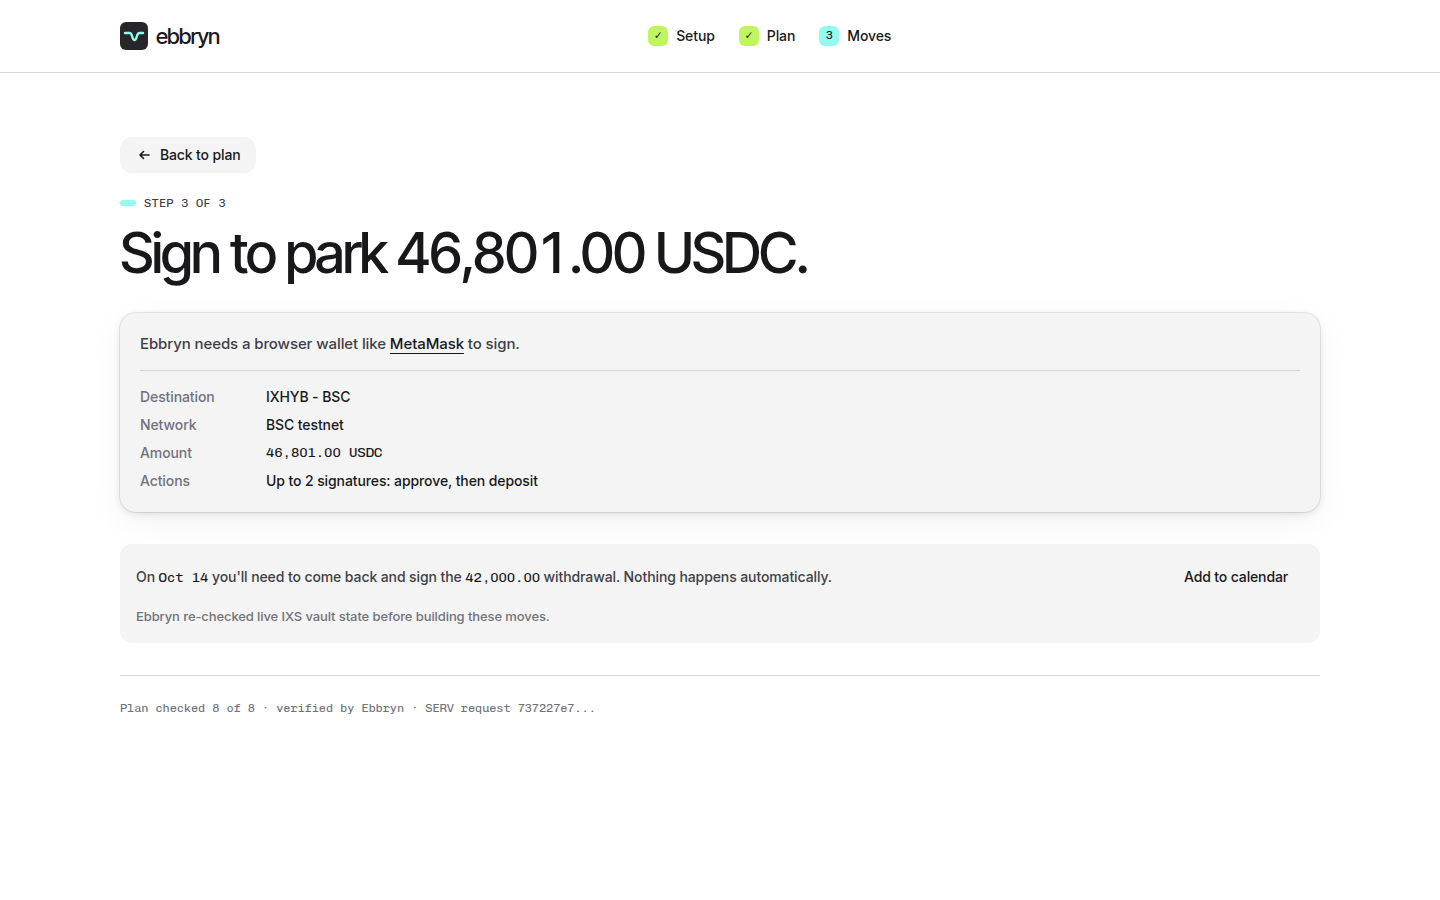
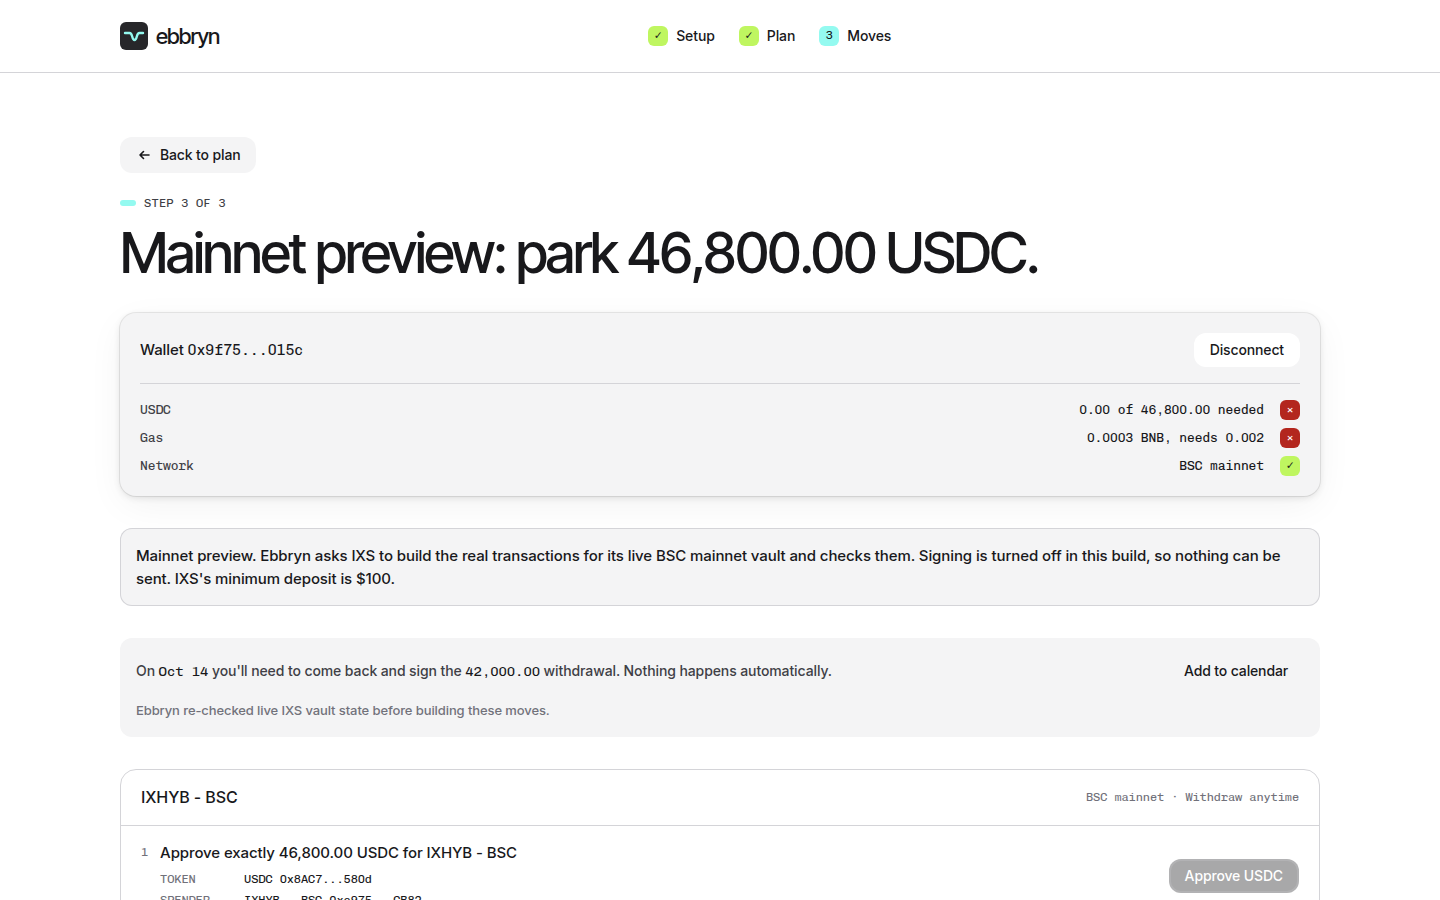
Align README with the mainnet preview and use a mainnet Moves screenshot

diff --git a/README.md b/README.md
@@ -6,7 +6,7 @@
 [![IXS vault on BSC mainnet](https://img.shields.io/badge/BSC%20mainnet-IXS%20vault-F0B90B)](https://bscscan.com/address/0xc975a3EeF2e49F8eDdEf585340C43f15300fCB82)
 [![SERV Hackathon](https://img.shields.io/badge/built%20for-SERV%20Hackathon%20Ed.01-18181b)](https://www.openserv.ai/hackathon)
 
-**Cash that comes back on time.** Ebbryn plans how much of a business's payroll USDC to park in IXS RWA vaults and when to bring it back before each payout. SERV plans it, code checks it, IXS builds the transactions, and you sign every move.
+**Cash that comes back on time.** Ebbryn plans how much of a business's payroll USDC to park in IXS RWA vaults and when to bring it back before each payout. SERV plans it, code checks it, IXS builds the real mainnet transactions, and only your own wallet could ever sign them. The live site is a mainnet preview with signing turned off.
 
 Built for the OpenServ SERV Hackathon, Edition 01, Open Track.
 
@@ -65,8 +65,8 @@ sequenceDiagram
     App->>IXS: Build unsigned approve and deposit
     IXS-->>App: Transactions
     App->>App: Verify contract and approve amount
-    App-->>You: Exact transactions to sign
-    You->>Chain: Sign and send (testnet mode only)
+    App-->>You: Exact mainnet transactions, signing turned off
+    Note over You,Chain: Testnet mode: you sign and send from your own wallet
 ```
 
 | Step | Who decides | What happens |
@@ -76,7 +76,7 @@ sequenceDiagram
 | Check | Code | Eight deterministic checks. A failing plan goes back to SERV once with the failures. If it still fails, moves stay locked |
 | Seal | Code | A passing plan is HMAC-signed so it can't be edited in the browser before moves are built |
 | Build | IXS | IXS MCP returns unsigned approve and deposit transactions. Ebbryn rejects any transaction aimed at an unexpected contract and checks the approve amount matches the deposit |
-| Sign | You | You sign every transaction, including each later withdrawal |
+| Sign | You | Only your wallet can sign. On the live mainnet preview signing is off; in testnet mode you sign each move, including later withdrawals |
 
 The rule of the design: judgment goes to the model, arithmetic goes to code. SERV weighs competing goals like your buffer rules, payout dates and withdrawal lag. Code owns every sum, date and limit.
 
@@ -132,7 +132,7 @@ Every plan runs through [`src/lib/check.ts`](src/lib/check.ts). One failure lock
 | Case | Result | Evidence |
 |---|---|---|
 | SERV counts the same payroll twice | Rejected by `COVER_ONCE` and `LIQUID_COVER`, moves locked | [`serv-double-count.json`](src/fixtures/serv-double-count.json), [`check.test.ts`](src/lib/check.test.ts) |
-| Payroll plan on the live URL | 8 of 8 on the first attempt: 81,600 ready, 46,801 parked, 42,000 withdrawn Oct 14 for the Oct 15 payroll | SERV request `4e20751a-7866-4b12-ac69-4fa3eec5aca8` |
+| Payroll plan on the live URL (testnet run, Sep 24) | 8 of 8 on the first attempt: 81,600 ready, 46,801 parked, 42,000 withdrawn Oct 14 for the Oct 15 payroll | SERV request `4e20751a-7866-4b12-ac69-4fa3eec5aca8` |
 | Rules text says "park 100%" | `CAP` fails, hard limits win | [`check.test.ts`](src/lib/check.test.ts) |
 | Real mainnet transactions | IXS built an exact USDC approve and a deposit into the live BSC vault `0xc975…fCB82`; the Moves screen keeps both unsigned | [`src/lib/network.ts`](src/lib/network.ts), [`network.test.ts`](src/lib/network.test.ts) |
 | Plan edited in the browser | `/api/moves` returns 400, nothing built | [`guard.test.ts`](src/lib/guard.test.ts) |
@@ -142,7 +142,7 @@ Every plan runs through [`src/lib/check.ts`](src/lib/check.ts). One failure lock
 
 Lint, typecheck, 39 tests and a production build run on every push in [CI](.github/workflows/ci.yml).
 
-![Moves screen with the exact deposit and a withdrawal reminder](.github/assets/moves.png)
+![Mainnet preview: the real IXS approve and deposit for the live BSC vault, with signing turned off](.github/assets/moves.png)
 
 ## Business model
 
